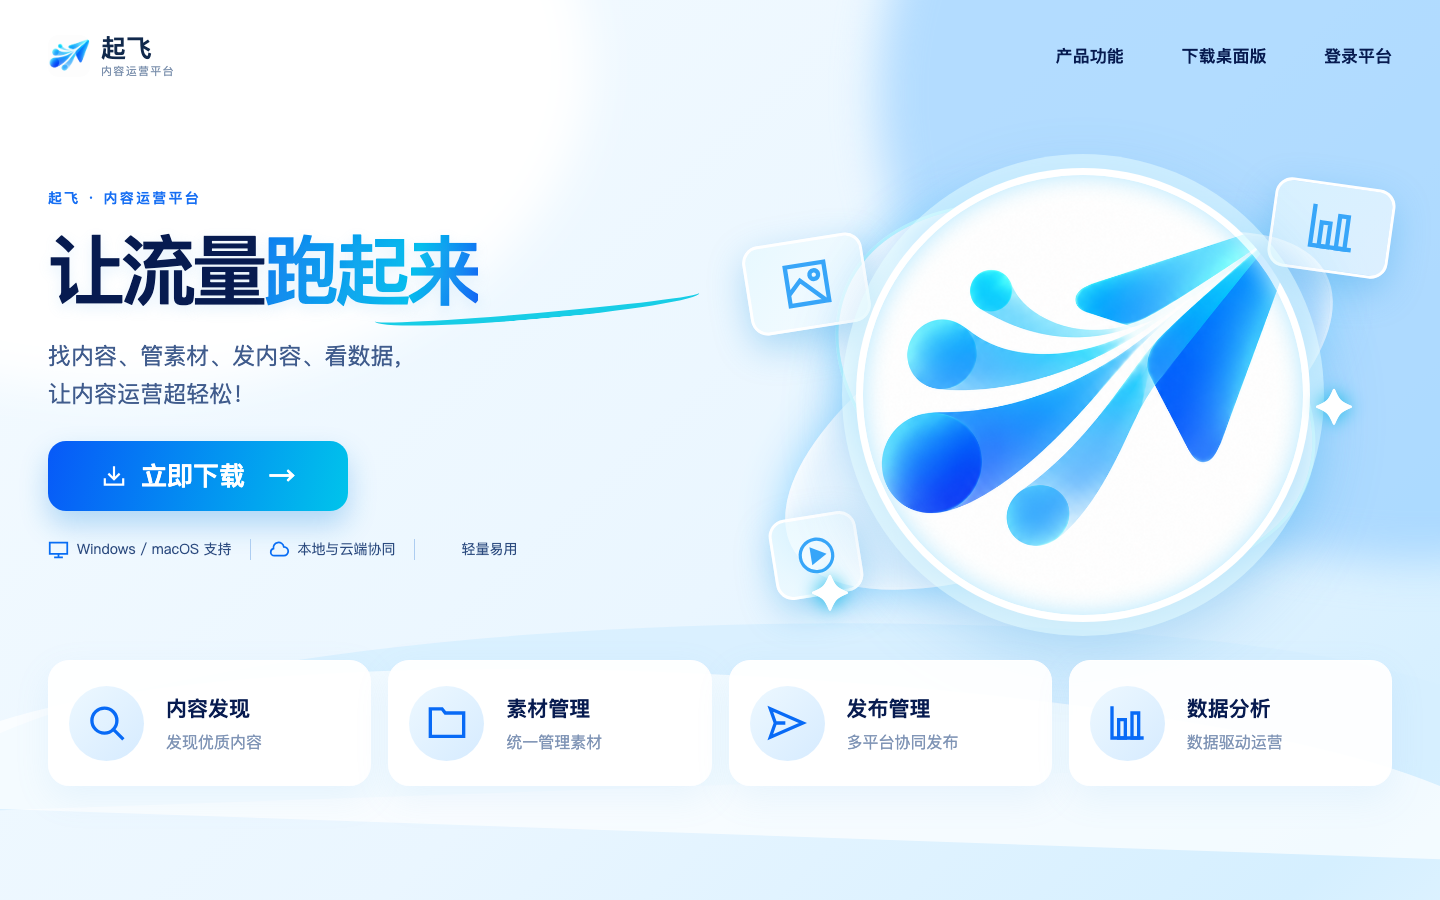
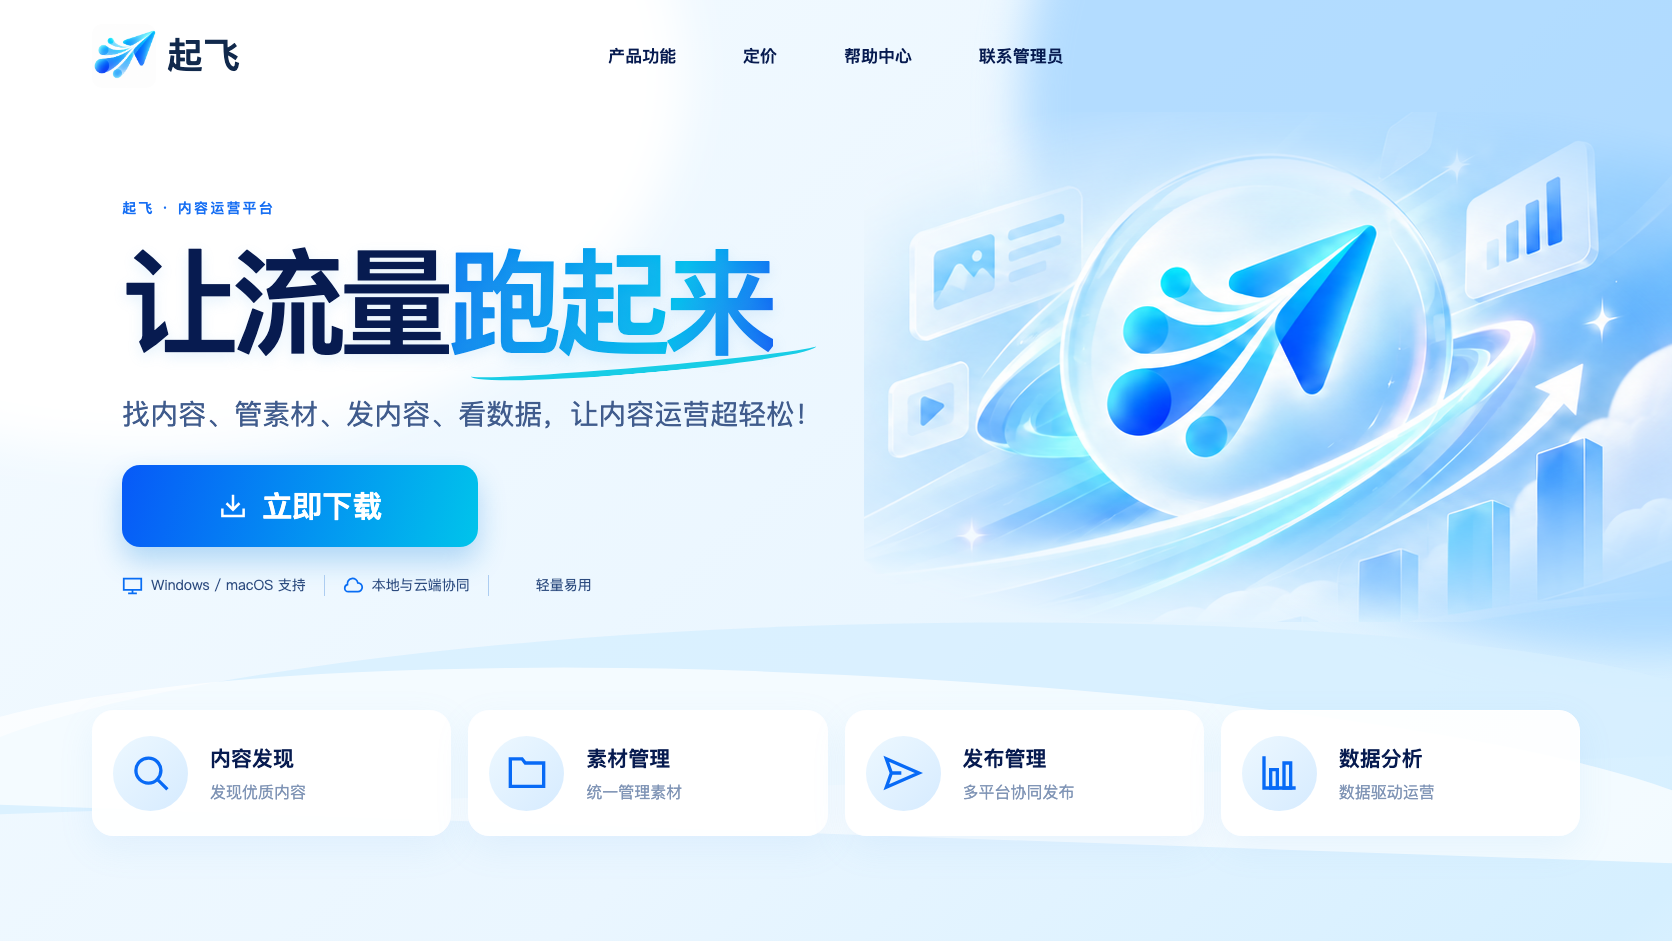
docs: record CHG 078 home visual correction

diff --git a/delivery/active/CHG-20261010-078/checkpoint.md b/delivery/active/CHG-20261010-078/checkpoint.md
@@ -1,7 +1,7 @@
 # CHG-20261010-078 Checkpoint
 
 - 已完成：Task 1 脚本与初始清单；Task 2 Cloud `/home` 与三平台按钮；Task 3 共享登录页及品牌视觉，宽屏与 390 px 无头浏览器截图已留证。
-- 当前工作：代码完成，状态 VERIFYING；等待新 Cloud Web 部署后的 `/home`、真实账号登录与目标用户网络三平台下载验收。
-- 下一步：运维在升级/部署后执行固定 Tag 清单更新命令，回读在线 JSON，逐个平台点击下载；收到结果后关闭 CHG。
+- 当前工作：首页视觉修正已提交，状态回到 VERIFYING；等待新 Cloud Web 部署后的 `/home`、真实账号登录与目标用户网络三平台下载验收。
+- 下一步：部署后执行固定 Tag 清单更新命令，回读在线 JSON，逐个平台点击下载；收到结果后关闭 CHG。
 - 阻塞：无代码阻塞。在线部署和终端网络验收依赖目标环境人工执行。
-- 最近验证：Web 全量 490 项、Cloud/Desktop 双构建、Go 静态测试、下载脚本 4 项均通过；重新从 GitHub 生成的 `v0.1.0` 清单与 Cloud 初始文件逐字节一致；390 px 首页和登录页无水平滚动；Delivery governance 通过。本机对 GitHub 资产直连 HEAD 曾超时，尚不代表用户网络不可下载。
+- 最近验证：首页视觉修正后 Cloud Web 构建与 Web 全量 490 项通过；1672×941 新截图与 390 px 移动截图已替换，移动视口宽度与文档滚动宽度同为 390。先前 Cloud/Desktop 双构建、Go 静态测试、下载脚本 4 项和 GitHub 清单核对仍有效；本机对 GitHub 资产直连 HEAD 曾超时，尚不代表用户网络不可下载。

diff --git a/delivery/active/CHG-20261010-078/evidence/home-visual-correction.md b/delivery/active/CHG-20261010-078/evidence/home-visual-correction.md
@@ -1,0 +1,8 @@
+# 官网参考图视觉修正
+
[1 lines of base64/hex data omitted]
+- 改动：将参考图右侧无文字区域用作桌面版主视觉；保留真实标题、说明、下载按钮及功能卡。桌面版按 1672×941 参考图调整间距、字号和功能卡位置。导航改为居中「产品功能／定价／帮助中心／联系管理员」，均有对应页面锚点；无已确认价格或联系方式时只展示事实说明。下载主按钮移除右侧箭头。移动端保留响应式品牌图与登录入口。
+- 命令：`npm run build:cloud`；实际退出码 0。
+- 命令：`npm test`；实际 52 个测试文件、490 项测试通过。
+- 无头浏览器截图：`screenshots/wt-home-wide.png`（1672×941）及 `screenshots/wt-home-mobile-cdp.png`（390×844）。移动端 `innerWidth=390`，`documentElement.scrollWidth=390`，无水平溢出。
+- 边界：这是页面渲染和交互结构验收，不代表已部署到线上或用户网络安装包下载成功。

diff --git a/delivery/active/CHG-20261010-078/status/cloud.md b/delivery/active/CHG-20261010-078/status/cloud.md
@@ -1,6 +1,6 @@
 # Cloud 状态
 
 - 分支：`codex/public-home-downloads`。
-- 已提交：`aedd398` 公开官网和下载清单；`a2c8f72` 共享登录视觉。
-- 验证：Web 52 个文件、490 项测试通过；Cloud/Desktop Web 构建通过；Go Cloud 静态服务聚焦测试通过；无头浏览器宽屏与 390 px 截图已记录。
+- 已提交：`aedd398` 公开官网和下载清单；`a2c8f72` 共享登录视觉；`dcb3983` 按用户官网参考图校准视觉。
+- 验证：首页校准后 Web 52 个文件、490 项测试与 Cloud Web 构建通过；1672×941 和 390 px 截图已更新，390 px 无水平滚动。先前 Desktop Web 构建与 Go Cloud 静态服务聚焦测试通过。
 - 待验收：新版本部署后 `/home`、真实账号登录、三平台安装包在目标用户网络的实际下载。

diff --git a/.ai/CURRENT_CONTEXT.md b/.ai/CURRENT_CONTEXT.md
@@ -1,6 +1,6 @@
 # WT Media Current AI Context
 
-- Generated: 2026-10-10T00:46:27Z
+- Generated: 2026-10-10T02:10:29Z
 - Active CHG: `CHG-20261010-078` — 公开官网与桌面安装包下载
 - Status: `VERIFYING`
 - Current milestone: `delivery/milestones/M-first-production-release.md#公开官网与桌面安装包下载`
